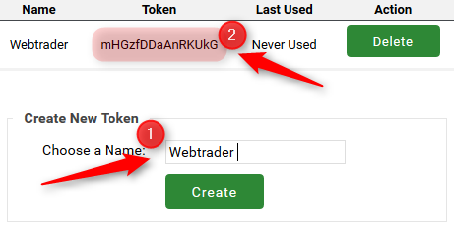
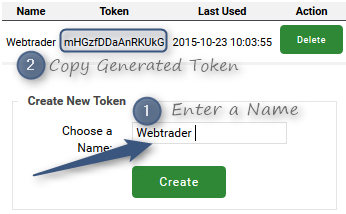
better styles for token dialog

Changed region(s): [[0.0289, 0.4486, 0.9827, 0.9252], [0.0, 0.0, 1.0, 0.3925], [0.0289, 0.9533, 0.9827, 0.9813]]

diff --git a/src/token/token.js b/src/token/token.js
@@ -13,8 +13,8 @@ define(["jquery", "windows/windows","jquery-growl"], function ($, windows) {
             $.get('token/token.html', function ($html) {
                 $html = $($html);
                 tokenWin = windows.createBlankWindow($html, {
-                    width: 800,
-                    height: 400,
+                    width: 605,
+                    height: 380,
                     title: 'Authentication Token',
                     resizeable: false,
                     collapsable: false,
@@ -29,7 +29,8 @@ define(["jquery", "windows/windows","jquery-growl"], function ($, windows) {
 
                 var input = $html.find('input');
                 
-                $html.find(".token-dialog-apply")
+                $html.find("button")
+                    .first()
                     .button({ icons: { primary: "ui-icon-check" } })
                     .click(function () {
                         var val = input.val();
@@ -38,10 +39,9 @@ define(["jquery", "windows/windows","jquery-growl"], function ($, windows) {
 
                         callbacks = promise = null;
                         tokenWin.dialog('close');
-                    });
-
-                $html.find(".token-dialog-cancel")
-                    .button({ icons: { primary: "ui-icon-cancel" } })
+                    })
+                    .next()
+                    .button({ icons: { secondary: "ui-icon-cancel" } })
                     .click(function () {
                         callbacks && callbacks.reject({ message: "User didn't provide a token" });
 

diff --git a/src/token/token.css b/src/token/token.css
@@ -1,32 +1,30 @@
 .token-dialog input {
-    width: 99%;
-    margin-top: 10px;
-    margin-bottom: 10px;
+    width: 100%;
+    margin: 20px 0 5px 0;
+    text-align:center;
 }
 
 .token-dialog a, .token-dialog a:visited {
     color: #2a3052;
     font-weight: bold;
-}
-
-.token-dialog .token-dialog-cancel {
-    border: 0px solid #980000;
-    background: #980000 !important;
+    outline:0;
 }
 
 .token-dialog p {
     font-size: large;
     font-weight: bold;
+    margin: 0 auto;
+}
+
+.token-dialog p,
+.token-dialog li {
     color: rgba(0,0,0,0.6);
     text-shadow: 2px 2px 3px rgba(0,0,0,0.25);
-    margin: 0 auto;
 }
 
 .token-dialog ul li {
     margin-top:10px;
     font-weight: bold;
-    color: rgba(0,0,0,0.6);
-    text-shadow: 2px 2px 3px rgba(0,0,0,0.25);
 }
 
 .token-dialog ul, .token-dialog img {
@@ -37,7 +35,7 @@
 
 .token-dialog ul {
     margin-top: 20px;
-    width: 33%;
+    width: 200px;
 }
 
 .token-dialog img {
@@ -45,4 +43,8 @@
     max-width: 100%;
     max-height: 100%;
     box-shadow: -5px 5px 8px rgba(0,0,0,0.25);
+}
+
+.token-dialog .token-dialog-buttons {
+    text-align:center;
 }

diff --git a/src/token/token.html b/src/token/token.html
@@ -1,6 +1,6 @@
 <div class="token-dialog">
     <p>
-        To access authenticated features of this application, do the following steps:
+        To access authenticated features of this application:
         <ul>
             <li><a target="_blank" href="https://www.binary.com/home?l=EN">Login</a></li>
             <li><a target="_blank" href="https://www.binary.com/user/api_token">Go to Apitoken</a></li>
@@ -12,6 +12,8 @@
     
     <input id="token-dialog-input" placeholder="Enter the token here" />
 
-    <button class="token-dialog-apply">Apply</button>
-    <button class="token-dialog-cancel">Cancel</button>
+    <div class="token-dialog-buttons">
+        <button>Apply</button>
+        <button>Cancel</button>
+    </div>
 </div>
